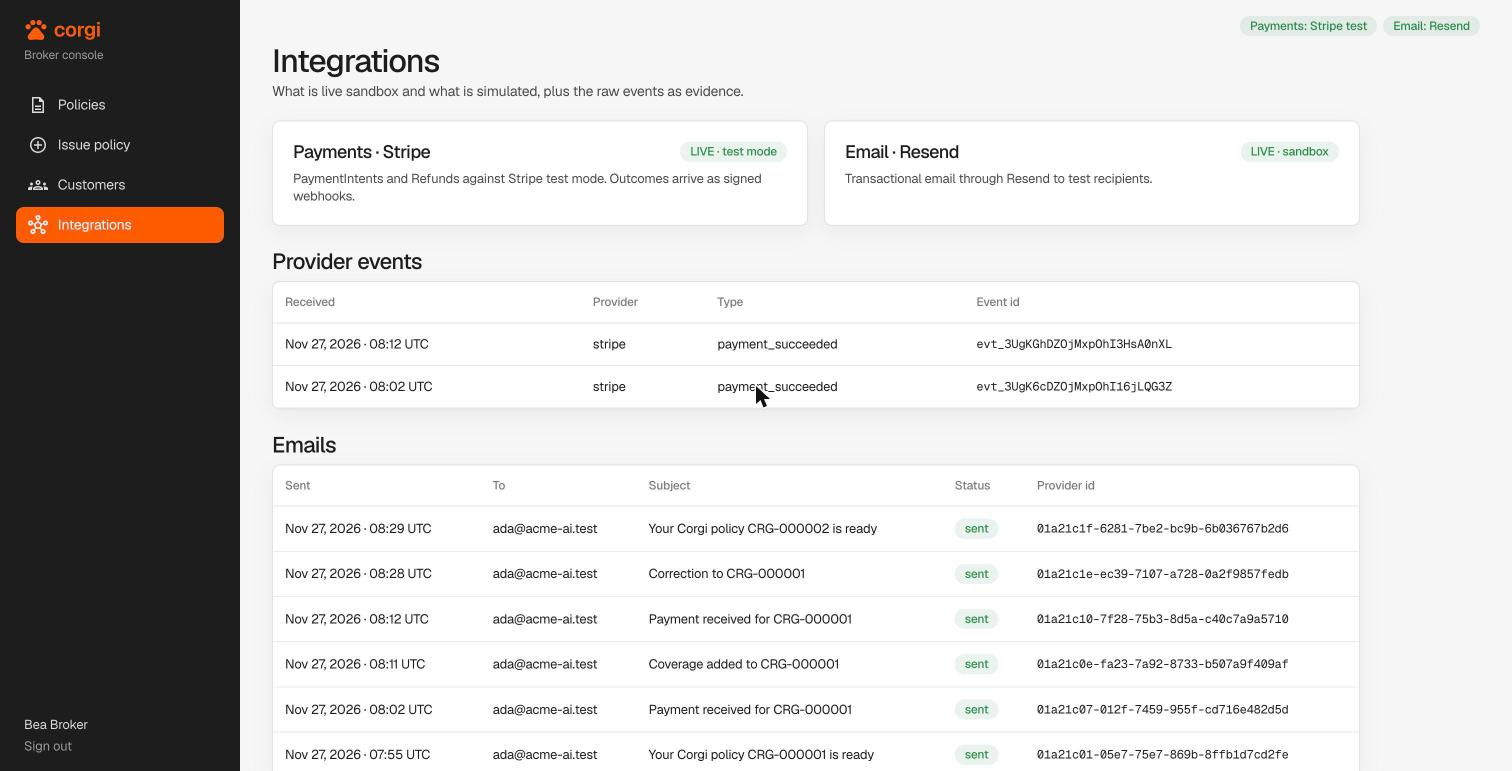
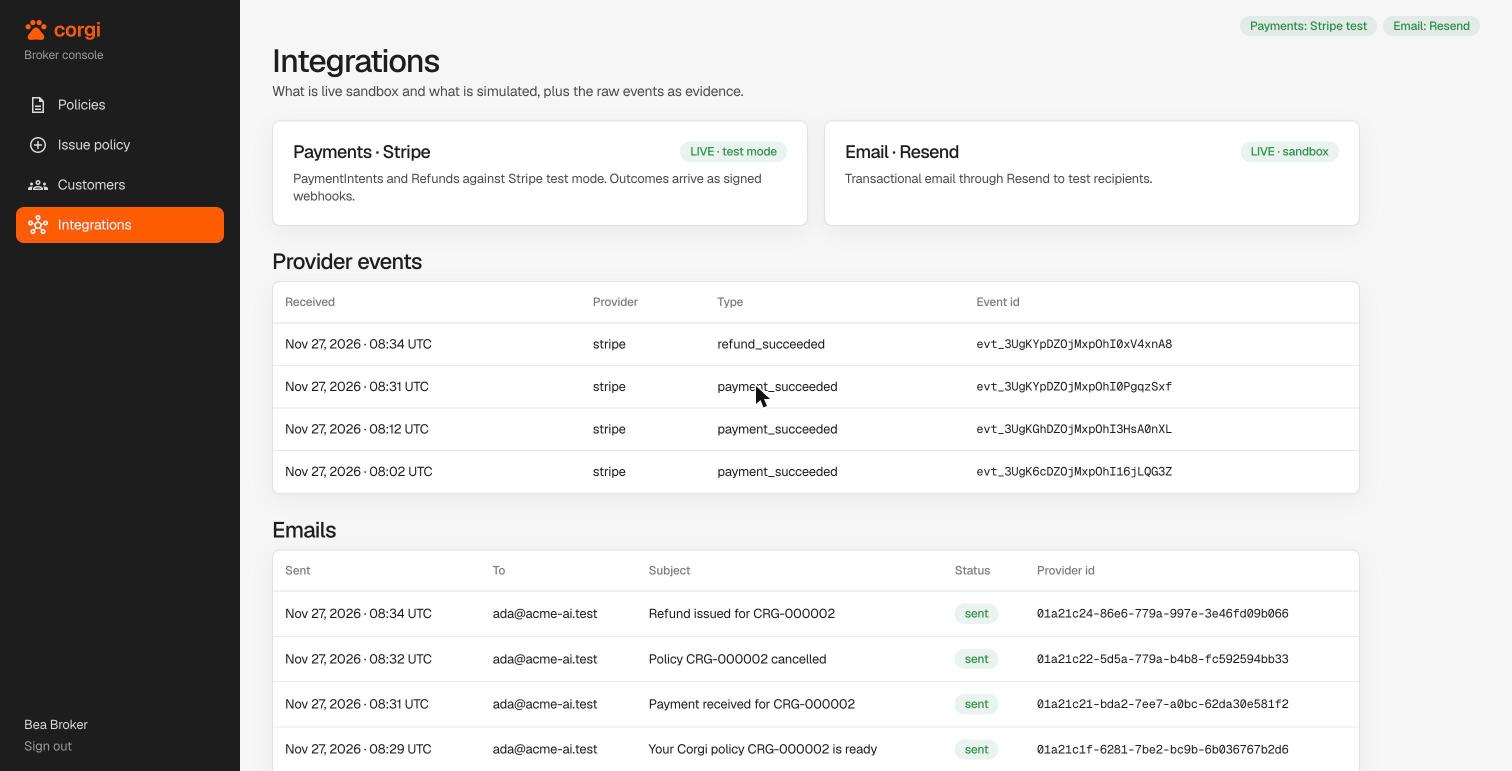
Add sandbox-integration evidence (screenshots + index)
Claude-Session: https://claude.ai/code/session_01KWEZEza3cLHra2Rt1scRiF

diff --git a/docs/evidence/README.md b/docs/evidence/README.md
@@ -1,0 +1,18 @@
+# Sandbox-integration evidence
+
+Captured 2026-11-27 on the deployed app (https://corgi-policy-admin-tihx.onrender.com) with live Stripe test mode and live Resend (sandbox sender).
+
+| File | What it shows |
+|---|---|
+| 01-integrations-live-events-emails.jpg | Integrations page: both providers LIVE; signed Stripe events (`evt_…`) for 3 payments and 1 refund; emails with Resend message ids, status `sent` |
+| 02-card-only-payment-form.jpg | Customer payment form: Stripe Elements, card only |
+| 03-add-coverage-preview.jpg | Broker adds Tech E&O mid-term, effective 2026-03-01: preview $3,650 × 306/365 = $3,060 before anything is saved |
+| 04-coverage-added-ledger.jpg | Ledger after adding coverage: +$3,060 charge, original payment kept |
+| 05-customer-paid-both-charges.jpg | Customer view: second payment of $3,060 booked, $0 due |
+| 06-correction-preview.jpg | Date correction preview: start Mar 1 → Feb 22, $3,650 × 313/365 = $3,130, already charged $3,060, +$70 |
+| 07-correction-applied-original-kept.jpg | After correction: original charge and payment kept, separate Correction line +$70, $70 due |
+| 08-date-history-and-ledger.jpg | Bitemporal date history: Mar 1 superseded, Feb 22 current, who recorded it and why |
+| 09-cancel-preview-prorata-refund.jpg | Cancellation effective 2027-02-27: $2,400 × 92/365 = $604.93 earned, refund $1,795.07 |
+| 10-cancel-refund-ledger.jpg | Ledger after cancel + refund: Charge, Payment, Credit, Refund; balance $0, Refunded $1,795.07 |
+| 11-stripe-api-log-refund-400-then-200.jpg | Stripe request log: two refund calls rejected (idempotency key reused by another database), then 200 after the key fix (see DECISIONS.md) |
+| 12-test-run.txt | Backend test suite result |
